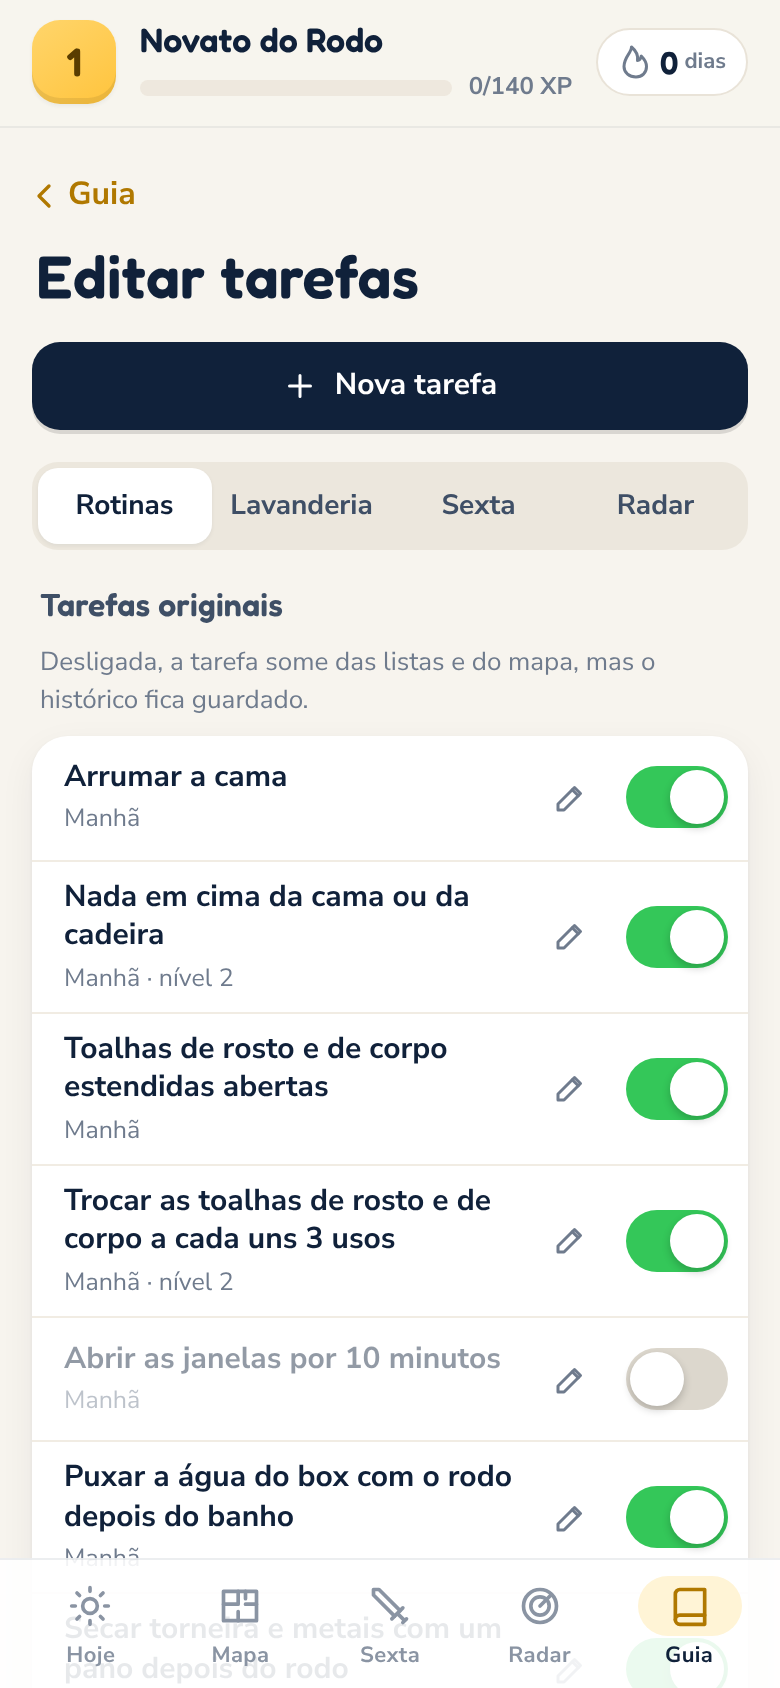
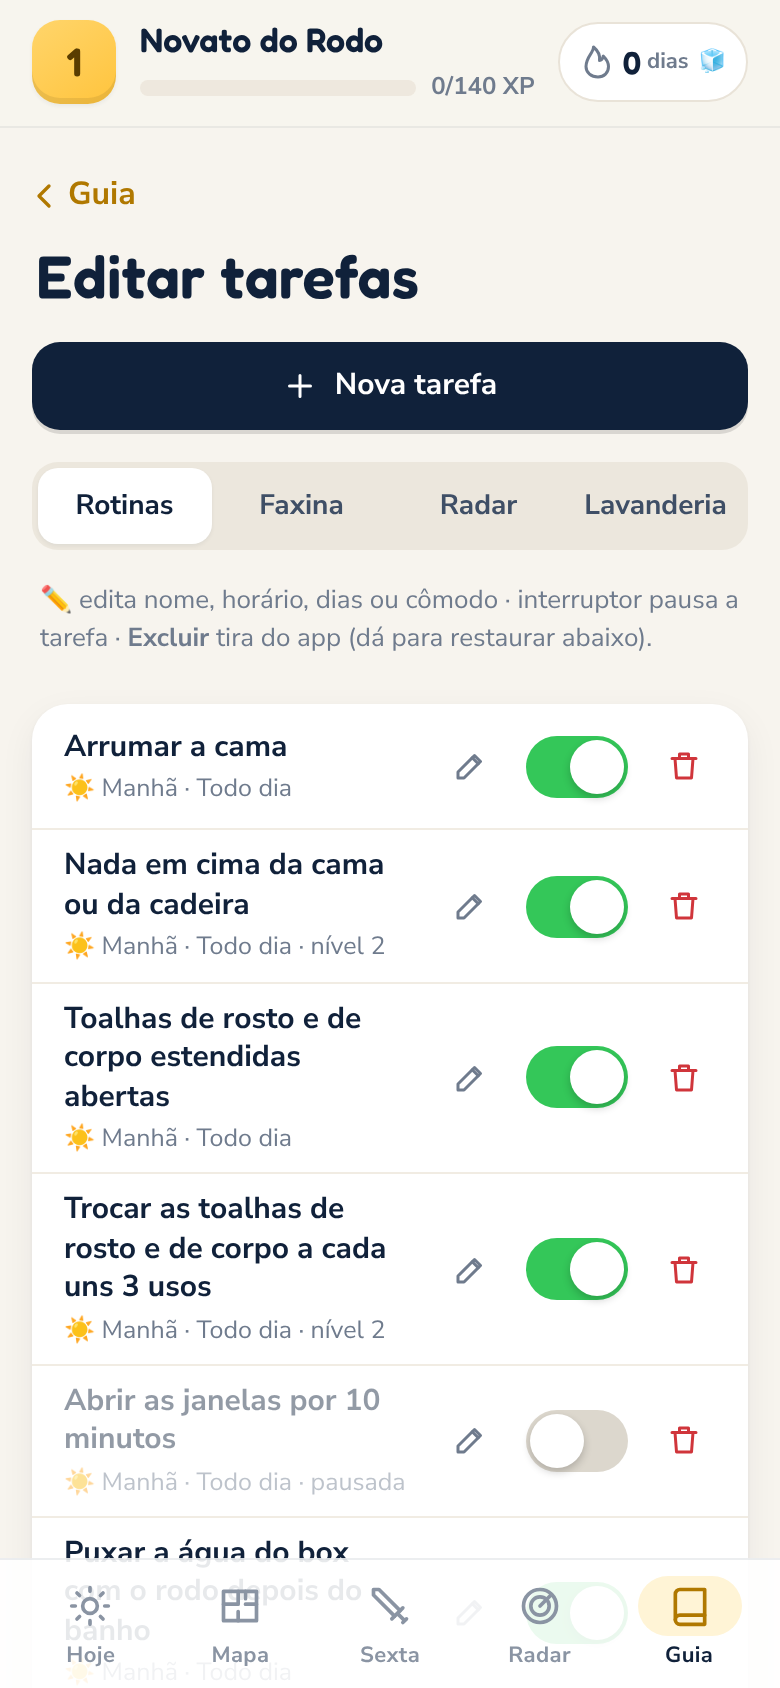
Atualiza testes Playwright, screenshots e README
Claude-Session: https://claude.ai/code/session_01SK56n9hGAncVtZvUgBRXjG

diff --git a/e2e/app.spec.ts b/e2e/app.spec.ts
@@ -7,8 +7,14 @@ test.beforeEach(async ({ page }) => {
   await page.clock.setFixedTime(new Date('2026-11-27T19:00:00-03:00'));
 });
 
-test('marcar tarefas da raid pinta o cômodo no mapa', async ({ page }) => {
+async function open(page: import('@playwright/test').Page) {
   await page.goto('./');
+  await page.getByRole('button', { name: 'Pular' }).click();
+  await expect(page.getByRole('dialog', { name: 'Apresentação' })).toBeHidden();
+}
+
+test('marcar tarefas da raid pinta o cômodo no mapa', async ({ page }) => {
+  await open(page);
   await page.locator('[data-tab="map"]').click();
 
   const quarto = page.locator('[data-room="quarto"]');
@@ -52,24 +58,27 @@ test('marcar tarefas da raid pinta o cômodo no mapa', async ({ page }) => {
 });
 
 test('screenshots de cada aba', async ({ page }) => {
-  await page.goto('./');
+  await open(page);
   for (const tab of ['today', 'map', 'raid', 'radar', 'guide']) {
     await page.locator(`[data-tab="${tab}"]`).click();
     await page.waitForTimeout(400);
     await page.screenshot({ path: `${SHOTS}/${tab}.png` });
   }
-  await page.getByRole('button', { name: /Editar tarefas/ }).click();
-  await page.waitForTimeout(300);
-  await page.screenshot({ path: `${SHOTS}/editor.png` });
+  for (const [name, file] of [[/Editar tarefas/, 'editor'], [/Histórico/, 'historico'], [/Produtos/, 'produtos'], [/Cômodos/, 'comodos'], [/Ajustes/, 'ajustes']] as const) {
+    await page.locator('[data-tab="guide"]').click();
+    await page.getByRole('button', { name }).first().click();
+    await page.waitForTimeout(300);
+    await page.screenshot({ path: `${SHOTS}/${file}.png` });
+  }
 });
 
 test('editor: nova tarefa da raid aparece no mapa', async ({ page }) => {
-  await page.goto('./');
+  await open(page);
   await page.locator('[data-tab="guide"]').click();
   await page.getByRole('button', { name: /Editar tarefas/ }).click();
   await page.getByRole('button', { name: 'Nova tarefa' }).click();
   await page.getByPlaceholder('Ex.: Regar as plantas').fill('Regar as <b>plantas</b>');
-  await page.getByRole('button', { name: 'Raid de sexta' }).click();
+  await page.getByRole('button', { name: /Dia da faxina/ }).click();
   await page.locator('select').selectOption('sala');
   await page.getByRole('button', { name: 'Adicionar tarefa' }).click();
   await expect(page.getByText('Regar as <b>plantas</b>').first()).toBeVisible(); // texto escapado
@@ -79,7 +88,7 @@ test('editor: nova tarefa da raid aparece no mapa', async ({ page }) => {
 });
 
 test('PWA: manifest, service worker e funciona offline', async ({ page, context }) => {
-  await page.goto('./');
+  await open(page);
   const manifest = await page.evaluate(async () => {
     const href = document.querySelector('link[rel="manifest"]')?.getAttribute('href');
     return href ? (await fetch(href)).json() : null;
@@ -93,4 +102,73 @@ test('PWA: manifest, service worker e funciona offline', async ({ page, context 
   await page.reload();
   await expect(page.locator('[data-tab="map"]')).toBeVisible();
   await context.setOffline(false);
+});
+
+test('apresentação inicial passo a passo', async ({ page }) => {
+  await page.goto('./');
+  await expect(page.getByRole('dialog', { name: 'Apresentação' })).toBeVisible();
+  await page.waitForTimeout(500);
+  await page.screenshot({ path: `${SHOTS}/apresentacao.png` });
+  await page.getByRole('button', { name: 'Continuar' }).click();
+  await page.getByRole('button', { name: 'Sábado' }).click();
+  for (let i = 0; i < 3; i++) await page.getByRole('button', { name: 'Continuar' }).click();
+  await page.getByRole('dialog', { name: 'Apresentação' }).getByRole('button', { name: 'Começar', exact: true }).click();
+  await expect(page.getByRole('dialog', { name: 'Apresentação' })).toBeHidden();
+  await expect(page.locator('[data-tab="raid"]')).toContainText('Sábado');
+});
+
+test('faxina relâmpago, missões e mascote na aba Hoje', async ({ page }) => {
+  await open(page);
+  await page.locator('[data-tab="today"]').click();
+  await expect(page.getByText('Missões do dia')).toBeVisible();
+  await expect(page.getByRole('button', { name: /Esponjito/ })).toBeVisible();
+  await page.getByRole('button', { name: /Faxina relâmpago/ }).click();
+  await page.getByRole('button', { name: 'Começar 15 minutos' }).click();
+  const sheet = page.getByRole('dialog');
+  const boxes = sheet.getByRole('checkbox');
+  const n = await boxes.count();
+  expect(n).toBeGreaterThan(0);
+  for (let i = 0; i < n; i++) await boxes.nth(i).click();
+  await expect(page.getByText('Relâmpago no tempo!')).toBeVisible();
+  await page.screenshot({ path: `${SHOTS}/relampago.png` });
+});
+
+test('editor: excluir, restaurar e rotina em dias específicos', async ({ page }) => {
+  await open(page);
+  await page.locator('[data-tab="guide"]').click();
+  await page.getByRole('button', { name: /Editar tarefas/ }).click();
+  const row = page.locator('.edit-row', { hasText: 'Arrumar a cama' }).first();
+  await row.locator('.danger-icon').click();
+  await row.locator('.danger-icon').click();
+  await expect(page.locator('.edit-list').first()).not.toContainText('Arrumar a cama');
+  await page.getByRole('button', { name: /Excluídas/ }).click();
+  await page.getByRole('button', { name: 'Restaurar' }).click();
+  await expect(page.locator('.edit-list').first()).toContainText('Arrumar a cama');
+
+  await page.getByRole('button', { name: 'Nova tarefa' }).click();
+  await page.getByPlaceholder('Ex.: Regar as plantas').fill('Regar as samambaias');
+  await page.getByRole('button', { name: 'Dias específicos' }).click();
+  await page.getByRole('group', { name: 'Dias da semana' }).getByRole('button', { name: 'Ter' }).click();
+  await page.getByRole('button', { name: 'Adicionar tarefa' }).click();
+  await expect(page.getByText('Regar as samambaias')).toBeVisible();
+  // hoje é sexta: a rotina de terça (e de sexta, marcada por padrão) aparece só se incluir sexta
+  await page.locator('[data-tab="today"]').click();
+  await expect(page.getByText('Regar as samambaias')).toBeVisible();
+});
+
+test('cômodo novo aparece como anexo no mapa e pinta', async ({ page }) => {
+  await open(page);
+  await page.locator('[data-tab="guide"]').click();
+  await page.getByRole('button', { name: /^Cômodos/ }).click();
+  await page.getByRole('button', { name: /Área de serviço/ }).click();
+  await page.getByRole('button', { name: /Varanda/ }).click();
+  await page.locator('[data-tab="map"]').click();
+  const annex = page.locator('.room', { hasText: 'Área de serviço' });
+  await expect(annex).toHaveAttribute('data-pct', '0');
+  await annex.click();
+  await page.getByRole('dialog').getByRole('checkbox').first().click();
+  await page.getByRole('button', { name: 'Fechar', exact: true }).click();
+  await expect(annex).toHaveAttribute('data-pct', '33');
+  await page.waitForTimeout(900);
+  await page.locator('.plan').screenshot({ path: `${SHOTS}/mapa-anexos.png` });
 });

diff --git a/playwright.config.ts b/playwright.config.ts
@@ -2,7 +2,8 @@ import { defineConfig } from '@playwright/test';
 
 export default defineConfig({
   testDir: 'e2e',
-  timeout: 60_000,
+  timeout: 30_000,
+  expect: { timeout: 5_000 },
   use: {
     baseURL: 'http://localhost:4173/faxina-quest-app/',
     browserName: 'chromium',

diff --git a/README.md b/README.md
@@ -8,19 +8,25 @@ Rotina de limpeza da casa, gamificada, em português do Brasil. É um PWA para i
 
 ## O que tem
 
-- **Hoje**: anel de progresso do dia, rotinas da manhã e da noite, a lavanderia do dia, o "Piloto automático" (recolhível) e o canto mais atrasado do radar.
-- **Mapa**: planta baixa em SVG com 5 cômodos. Cada cômodo é pintado de baixo para cima conforme as tarefas da raid são concluídas (coral → amarelo → verde). Tocar num cômodo abre as tarefas dele.
-- **Sexta (Raid)**: 7 fases (Preparação → Quarto → Escritório → Sala → Cozinha → Banheiro → Fechamento), cronômetro com recorde, combo de XP e 2 missões secretas vindas do radar.
+- **Hoje**: mascote que evolui com o nível, anel de progresso do dia, 3 missões diárias, faxina relâmpago de 15 minutos, rotinas da manhã e da noite (todo dia ou em dias escolhidos), lavanderia do dia, "Piloto automático" e o canto mais atrasado do radar.
+- **Mapa**: planta baixa em SVG. Cada cômodo é pintado de baixo para cima conforme as tarefas da faxina são concluídas (coral → amarelo → verde). Cômodos criados aparecem como anexos; dá para adicionar tarefas direto no cômodo.
+- **Faxina (raid)**: em qualquer dia da semana que vocês escolherem. Fases em ordem, cronômetro com recorde, combo de XP e 2 missões secretas vindas do radar.
 - **Radar**: 26 cantos esquecidos com frequência de 15 a 180 dias.
-- **Guia**: editor de tarefas, rotinas e "Já faço sempre", instalação no iPhone, lavanderia, vídeos, segurança, backup em JSON e conquistas.
+- **Guia**:
+  - *Histórico e recordes*: calendário do mês, XP por semana, tempo das raids, recordes (raid, cômodo, combo, semana, sequência), missões da semana e medalha do mês.
+  - *Editar tarefas*: criar (rotina, dia da faxina ou radar), editar nome, dica, horário, dias e cômodo, pausar, excluir e restaurar.
+  - *Cômodos*, *Produtos e compras* (lista para mandar no WhatsApp), *Rotinas*, *Ajustes* (mascote, dia da faxina, sons, congelamentos e modo férias), *Instalar no iPhone*, *Backup*, *Lavanderia*, *Vídeos*, *Segurança* e *Conquistas* (com cartão para compartilhar).
+- **Apresentação** na primeira abertura, sons de comemoração e animações.
 
 ### Regras de jogo
 
-- XP: rotina +5, rotina de nível 2 +8, rotina consolidada +2, lavanderia +15, tarefa da raid +10 (+ combo), canto do radar +25, cômodo 100% +30, raid completa +100, semana de lavanderia +30, consolidação +50.
+- XP: rotina +5, rotina de nível 2 +8, rotina consolidada +2, lavanderia +15, tarefa da raid +10 (+ combo), canto do radar +25, cômodo 100% +30, raid completa +100, semana de lavanderia +30, consolidação +50, missão diária +10, missão semanal +40, relâmpago no tempo +20.
 - O nível *n* exige `100 + 40·n` XP.
-- A sequência conta o dia quando ≥ 70% das rotinas ativas (não consolidadas) foram feitas.
+- A sequência conta o dia quando ≥ 70% das rotinas ativas do dia (não consolidadas) foram feitas.
+- **Congelamento**: começa com 1, ganha mais 1 a cada 7 dias seguidos (máximo 2). Um dia perdido gasta um congelamento automaticamente. **Modo férias** segura a sequência sem gastar congelamento.
 - Com 15 execuções a rotina **consolida**: confete, dica de "como manter", +50 XP e desbloqueio da rotina de nível 2.
 - Combo: tarefas da raid marcadas com menos de 4 minutos entre si dão +2 XP por nível (máximo +10).
+- Missões: 3 diárias e 3 semanais, sorteadas no começo do período. 20 missões diárias no mês valem a medalha do mês.
 
 ## Rodar localmente
 
@@ -42,13 +48,13 @@ O endereço aparece no terminal (por padrão, `http://localhost:5173/faxina-ques
 npm test
 ```
 
-Testes de lógica com Vitest: XP, nível, sequência, consolidação, desbloqueio, combo, radar e chaves de período.
+Testes de lógica com Vitest: XP, nível, sequência, congelamento, férias, consolidação, desbloqueio, combo, missões, recordes, relâmpago, cômodos, editor, radar, chaves de período e migração de dados antigos.
 
 ```bash
 npm run test:e2e
 ```
 
-Testes com Playwright no viewport do iPhone 14 (390×844): marca tarefas da raid e confere que o cômodo pinta e o % muda no mapa, testa o editor e o modo offline e salva screenshots em `docs/screenshots/`.
+Testes com Playwright no viewport do iPhone 14 (390×844): mapa pintando, cômodos novos, apresentação, relâmpago, editor (excluir, restaurar, dias específicos), modo offline e screenshots em `docs/screenshots/`.
 
 ### Build
 
@@ -95,8 +101,13 @@ Cada iPhone tem o próprio placar. Para levar o progresso para outro aparelho, u
 src/
   data/content.ts     tarefas, dicas, radar, vídeos, segurança e lavanderia
   logic/period.ts     chaves de dia, semana (segunda) e raid (sexta)
-  logic/game.ts       regras de XP, nível, sequência, consolidação, combo e radar
-  logic/state.ts      formato dos dados salvos
+  logic/game.ts       regras de XP, nível, sequência, congelamento, consolidação, combo, recordes e relâmpago
+  logic/missions.ts   missões diárias e semanais e medalhas
+  logic/rooms.ts      cômodos, produtos e edição de tarefas
+  logic/history.ts    dados do histórico
+  logic/state.ts      formato dos dados salvos (e migração)
+  lib/sound.ts        sons sintetizados
+  lib/share.ts        cartão de compartilhar
   db.ts               persistência com Dexie (IndexedDB)
   store.tsx           estado do app e recálculo ao voltar para o primeiro plano
   tabs/               Hoje, Mapa, Sexta, Radar, Guia e Editor
@@ -105,7 +116,7 @@ e2e/                  testes Playwright
 scripts/make-icons.mjs  gera os PNGs dos ícones a partir de public/favicon.svg
 ```
 
-## Fase 2 (ainda não feita)
+## Próximos passos
 
 - Sincronizar o casal com Supabase (placar único, XP individual e da casa).
 - Lembretes por Web Push (iOS 16.4+) ou um arquivo `.ics` para o Calendário.
